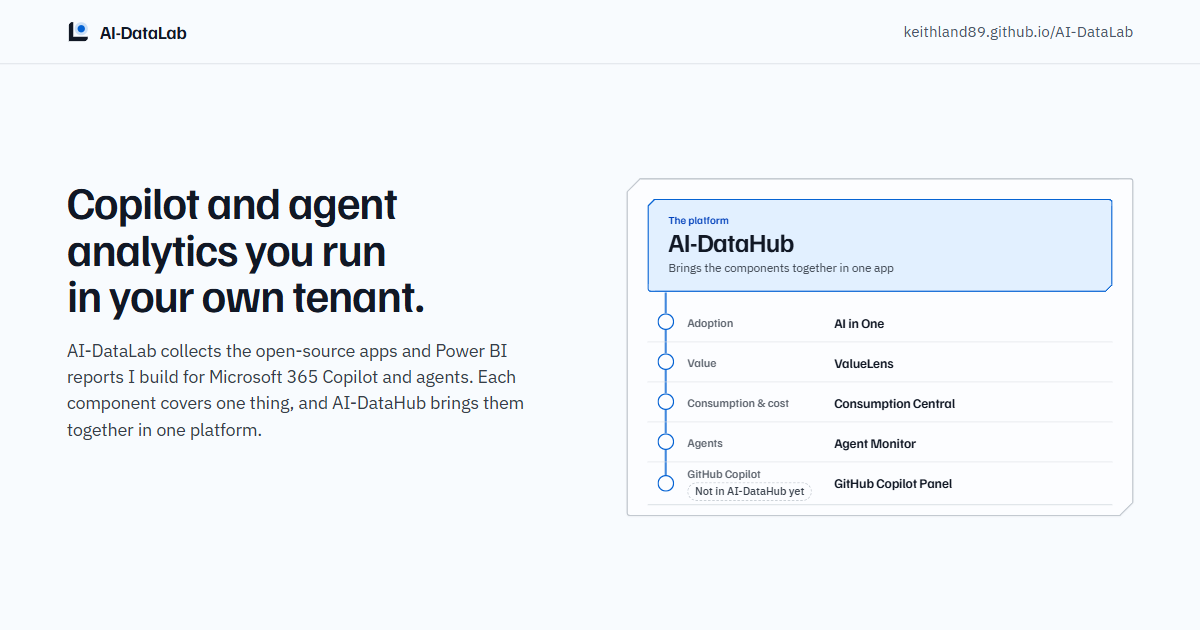
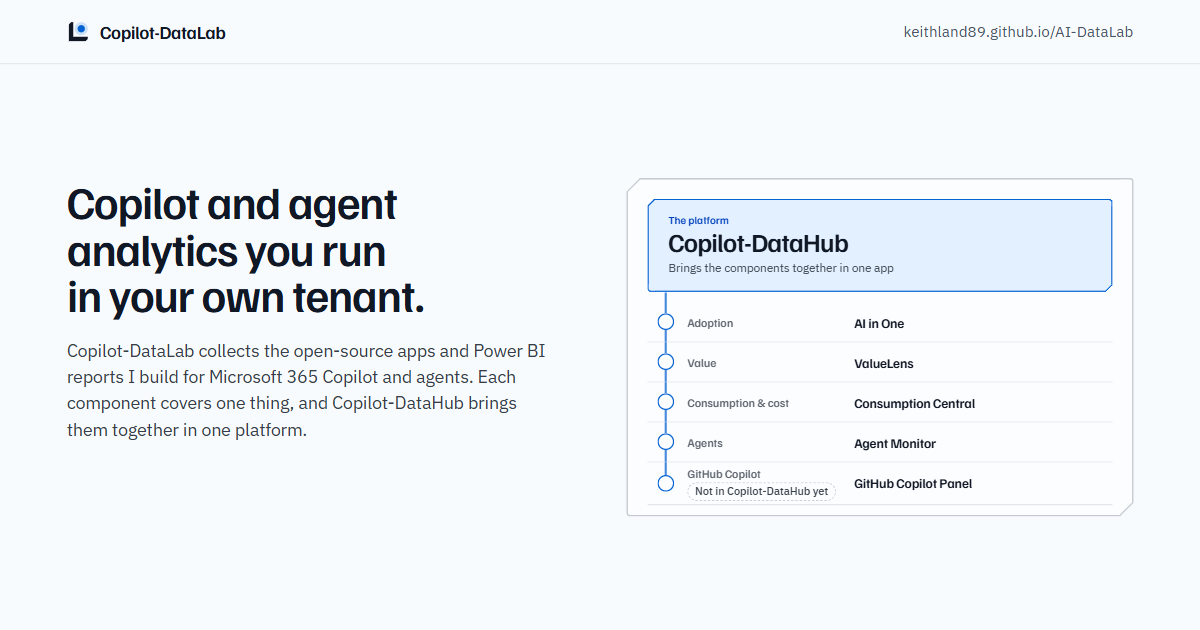
Call the site Copilot-DataLab and the platform Copilot-DataHub

diff --git a/src/data.ts b/src/data.ts
@@ -1,4 +1,4 @@
-// Each component covers one thing. AI-DataHub is the platform that brings them together.
+// Each component covers one thing. Copilot-DataHub is the platform that brings them together.
 export type Component = 'adoption' | 'value' | 'cost' | 'agents' | 'github'
 
 export const componentLabels: Record<Component, string> = {
@@ -25,7 +25,7 @@ export interface Solution {
   question: string
   /** The one thing this component covers. The platform has none. */
   component?: Component
-  /** A component that is not inside the AI-DataHub app yet. */
+  /** A component that is not inside the Copilot-DataHub app yet. */
   notInHub?: boolean
   runsAs: string[]
   measures: string[]
@@ -41,7 +41,7 @@ export interface Solution {
 export const solutions: Solution[] = [
   {
     id: 'ai-datahub',
-    name: 'AI-DataHub',
+    name: 'Copilot-DataHub',
     repo: 'microsoft/AnalyticsHub-Dashboard',
     summary:
       'The platform that brings it together: one installer sets up an app on Microsoft Fabric or Azure with Copilot and agent adoption, value, consumption and governance in one place.',
@@ -61,7 +61,7 @@ export const solutions: Solution[] = [
       'A Windows 10 or 11 PC. No admin rights needed',
     ],
     videos: [{ label: 'The app, page by page', url: 'https://github.com/microsoft/AnalyticsHub-Dashboard#videos', length: '2 min' }],
-    preview: { src: 'previews/analytics-hub.gif', alt: 'The AI-DataHub app, cycling through its pages on sample data' },
+    preview: { src: 'previews/analytics-hub.gif', alt: 'The Copilot-DataHub app, cycling through its pages on sample data' },
     includes: ['valuelens', 'agent-monitor', 'consumption-central'],
     stars: 10,
   },
@@ -191,7 +191,7 @@ export const solutions: Solution[] = [
     name: 'Agent Monitor',
     repo: 'Keithland89/Agent-Monitor',
     summary:
-      'Tenant-wide agent inventory and risk for Agent Builder, Copilot Studio, agent flows and Azure AI Foundry agents, built on APIs a normal admin can use. Usage and cost live in AI-DataHub.',
+      'Tenant-wide agent inventory and risk for Agent Builder, Copilot Studio, agent flows and Azure AI Foundry agents, built on APIs a normal admin can use. Usage and cost live in Copilot-DataHub.',
     question: 'Which agents exist across the tenant, who owns them, and which need attention?',
     runsAs: ['The app', 'Power BI', 'Local CSV'],
     measures: [
@@ -260,7 +260,7 @@ export const log: LogEntry[] = [
 ]
 
 export const steps = [
-  { title: 'Pick a solution', text: 'Start from the question you need answered. If you want all of it, start with AI-DataHub.' },
+  { title: 'Pick a solution', text: 'Start from the question you need answered. If you want all of it, start with Copilot-DataHub.' },
   { title: 'Try it on sample data', text: 'Watch the demo, or open the app on sample data. There is nothing to install.' },
   { title: 'Line up your admins', text: 'Each repo has a "Before you start" list that says who grants what. Send it round early.' },
   { title: 'Install and share', text: 'Run the installer or open the Power BI template, then share the app with the people who need it.' },

diff --git a/index.html b/index.html
@@ -3,18 +3,18 @@
   <head>
     <meta charset="UTF-8" />
     <meta name="viewport" content="width=device-width, initial-scale=1.0" />
-    <title>AI-DataLab: Copilot and agent analytics by Keith McGrane</title>
-    <meta name="description" content="Open-source apps and Power BI reports for Microsoft 365 Copilot and agent adoption, value, cost and agents: AI-DataHub, the platform, with AI in One, ValueLens, Consumption Central, Agent Monitor and GitHub Copilot Panel." />
+    <title>Copilot-DataLab: Copilot and agent analytics by Keith McGrane</title>
+    <meta name="description" content="Open-source apps and Power BI reports for Microsoft 365 Copilot and agent adoption, value, cost and agents: Copilot-DataHub, the platform, with AI in One, ValueLens, Consumption Central, Agent Monitor and GitHub Copilot Panel." />
     <link rel="canonical" href="https://keithland89.github.io/AI-DataLab/" />
     <meta property="og:type" content="website" />
-    <meta property="og:site_name" content="AI-DataLab" />
+    <meta property="og:site_name" content="Copilot-DataLab" />
     <meta property="og:url" content="https://keithland89.github.io/AI-DataLab/" />
-    <meta property="og:title" content="AI-DataLab: Copilot and agent analytics you run in your own tenant" />
-    <meta property="og:description" content="Free, open-source apps and Power BI reports for Copilot adoption, value, cost and agents, brought together in AI-DataHub." />
+    <meta property="og:title" content="Copilot-DataLab: Copilot and agent analytics you run in your own tenant" />
+    <meta property="og:description" content="Free, open-source apps and Power BI reports for Copilot adoption, value, cost and agents, brought together in Copilot-DataHub." />
     <meta property="og:image" content="https://keithland89.github.io/AI-DataLab/og.png" />
     <meta property="og:image:width" content="1200" />
     <meta property="og:image:height" content="630" />
-    <meta property="og:image:alt" content="AI-DataLab: AI-DataHub with its five components, AI in One, ValueLens, Consumption Central, Agent Monitor and GitHub Copilot Panel." />
+    <meta property="og:image:alt" content="Copilot-DataLab: Copilot-DataHub with its five components, AI in One, ValueLens, Consumption Central, Agent Monitor and GitHub Copilot Panel." />
     <meta name="twitter:card" content="summary_large_image" />
     <meta name="theme-color" content="#161d2b" />
     <link rel="icon" type="image/svg+xml" href="./favicon.svg" />

diff --git a/src/App.tsx b/src/App.tsx
@@ -47,7 +47,7 @@ export default function App() {
   const detail = route.startsWith('/s/') ? byId(route.slice(3) === 'analytics-hub' ? hub.id : route.slice(3)) : undefined
 
   useEffect(() => {
-    document.title = detail ? `${detail.name} | AI-DataLab` : 'AI-DataLab: Copilot and agent analytics by Keith McGrane'
+    document.title = detail ? `${detail.name} | Copilot-DataLab` : 'Copilot-DataLab: Copilot and agent analytics by Keith McGrane'
   }, [detail])
 
   // Section links (#solutions) scroll within the home page; if we're on a
@@ -86,7 +86,7 @@ function Header() {
       <div className="wrap header-row">
         <a className="brand" href="#">
           <Logo />
-          <span>AI-DataLab</span>
+          <span>Copilot-DataLab</span>
         </a>
         <nav aria-label="Site">
           <a href="#solutions">Solutions</a>
@@ -111,7 +111,7 @@ function Home({ live }: { live: Live }) {
           <div className="opening">
             <h1>Copilot and agent analytics you run in your own tenant.</h1>
             <p className="lede">
-              AI-DataLab collects the open-source apps and Power BI reports I build for Microsoft 365 Copilot and agents. Each
+              Copilot-DataLab collects the open-source apps and Power BI reports I build for Microsoft 365 Copilot and agents. Each
               component covers one thing, and {hub.name} brings them together in one platform.
             </p>
             <div className="cta-row">
@@ -602,7 +602,7 @@ function Footer() {
     <footer className="site-footer">
       <div className="wrap footer-row">
         <div>
-          <a className="brand" href="#"><Logo /><span>AI-DataLab</span></a>
+          <a className="brand" href="#"><Logo /><span>Copilot-DataLab</span></a>
           <p>Built by Keith McGrane (<a href="https://github.com/Keithland89">@Keithland89</a>).</p>
         </div>
         <p className="disclaimer">

diff --git a/src/index.css b/src/index.css
@@ -301,7 +301,7 @@ main:focus { outline: none; }
   box-shadow: var(--shadow-card);
 }
 
-/* The platform: AI-DataHub on top, each component hanging from one rail below it. */
+/* The platform: Copilot-DataHub on top, each component hanging from one rail below it. */
 .platform { margin: 0; }
 .platform a { color: inherit; text-decoration: none; }
 
@@ -332,7 +332,7 @@ main:focus { outline: none; }
 .platform-hub:hover strong,
 .platform-hub:focus-visible strong { text-decoration: underline; text-decoration-color: var(--color-accent); }
 
-.platform-parts { position: relative; list-style: none; margin: 0; padding: var(--space-sm) 0 0; }
+.platform-parts { position: relative; list-style: none; margin: 0; padding: var(--space-sm) 0 0; container: parts / inline-size; }
 
 /* The rail: down from the platform to the last component's point. */
 .platform-parts::before {
@@ -348,7 +348,7 @@ main:focus { outline: none; }
 .part {
   position: relative;
   display: grid;
-  grid-template-columns: minmax(0, 10rem) minmax(0, 1fr) auto;
+  grid-template-columns: minmax(0, 11.5rem) minmax(0, 1fr) auto;
   grid-template-areas: "label name meta";
   align-items: center;
   gap: var(--space-2xs) var(--space-md);
@@ -1058,8 +1058,10 @@ main:focus { outline: none; }
   .disclaimer { justify-self: start; }
 }
 
-@media (max-width: 520px) {
+@container parts (max-width: 32rem) {
   .part { grid-template-columns: minmax(0, 1fr) auto; grid-template-areas: "label meta" "name meta"; padding-block: var(--space-xs); }
+}
+@media (max-width: 520px) {
   .platform-hub { padding: var(--space-md); }
   .field-axis { font-size: 11px; }
 }

diff --git a/src/SignalField.tsx b/src/SignalField.tsx
@@ -2,7 +2,7 @@ import { useEffect, useRef } from 'react'
 import { componentLabels, components, hub as platform, parts } from './data'
 
 // The platform again, drawn as a character field on the theme's 8 by 16 cell.
-// AI-DataHub is the band across the top; each component is a plotted point in
+// Copilot-DataHub is the band across the top; each component is a plotted point in
 // its own column below. The one the picker has chosen grows its halo.
 const RAMP = ' .:-=+*#%@'
 const CELL_W = 8

diff --git a/README.md b/README.md
@@ -1,8 +1,11 @@
-# AI-DataLab
+# Copilot-DataLab
 
 A hub site for my open-source Microsoft 365 Copilot and agent analytics solutions:
-AI-DataHub, the platform that brings them together (GitHub Copilot Panel isn't in it yet), and its components: AI in One (adoption),
+Copilot-DataHub, the platform that brings them together (GitHub Copilot Panel isn't in it yet), and its components: AI in One (adoption),
 ValueLens (value), Consumption Central (consumption and cost), Agent Monitor (agents) and GitHub Copilot Panel (GitHub Copilot).
+
+The site uses the names Copilot-DataLab and Copilot-DataHub. The repos keep their own names: this one is AI-DataLab, and
+Copilot-DataHub is [microsoft/AnalyticsHub-Dashboard](https://github.com/microsoft/AnalyticsHub-Dashboard).
 
 Built with Vite, React and TypeScript. It has no UI framework: the styling is plain CSS in `src/index.css`.
 
